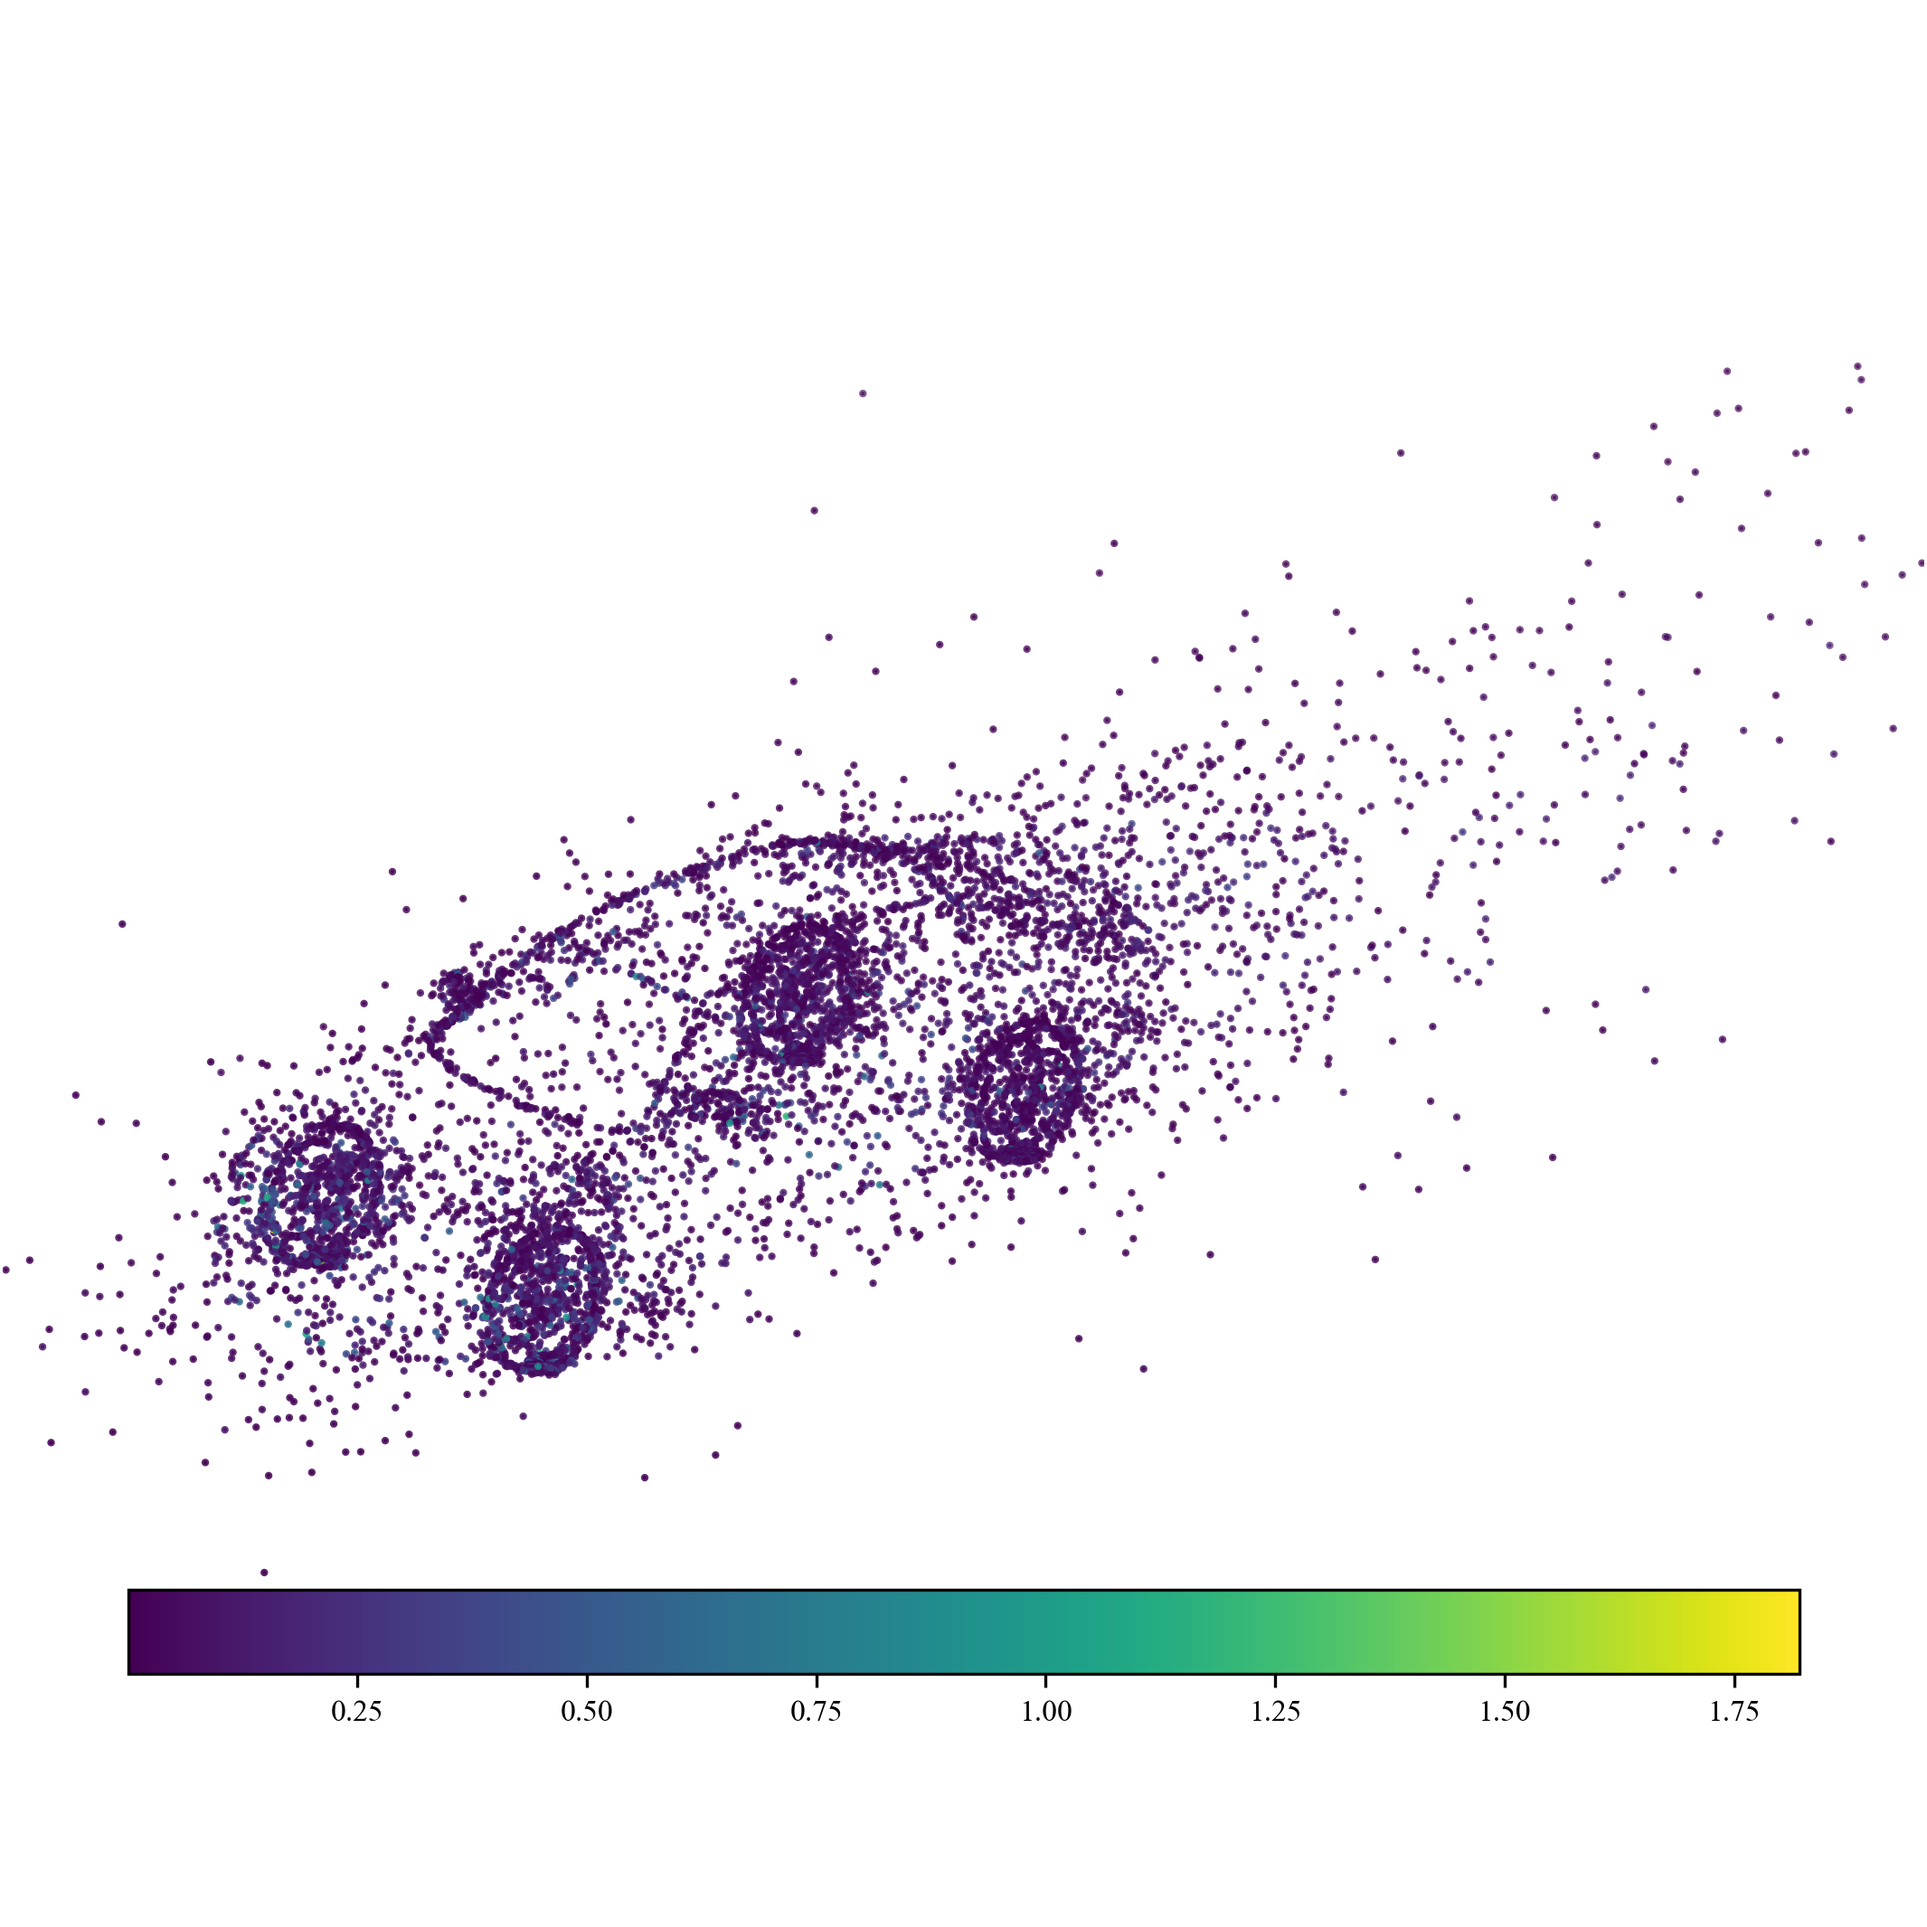
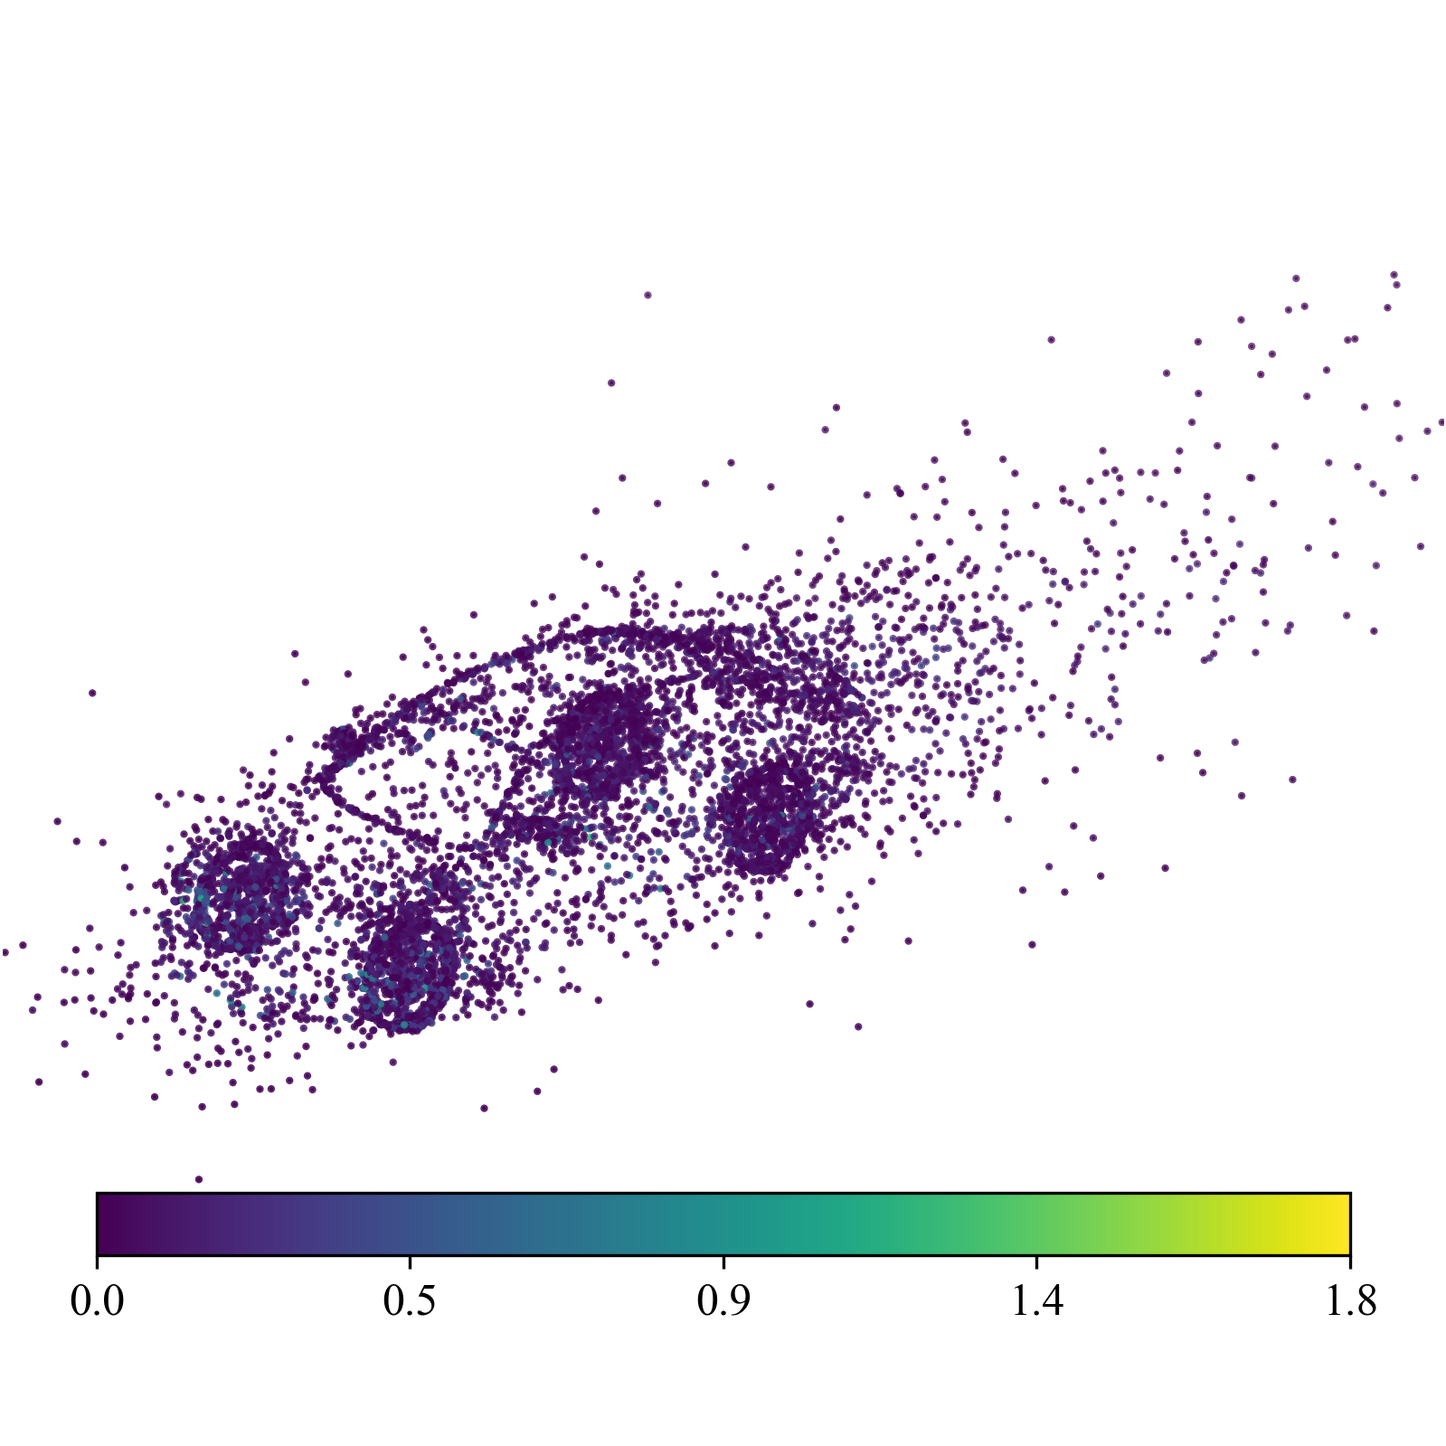
just nothing

diff --git a/RopeTransolver/plt.py b/RopeTransolver/plt.py
@@ -1,5 +1,5 @@
 import numpy as np
-from utils_RPTO import plot_car_DrivAerML 
+from utils_RPTO import plot_car_DrivAerML_velocity 
 import os
 
 size=np.load("/Users/zhangbojun/ML_Turbulent/RopeTransolver/data_DrivAerML/velocity/x.npy")
@@ -18,11 +18,10 @@ print(y.shape)
 print(y_hat.shape)
 
 figure_path = "/Users/zhangbojun/ML_Turbulent/RopeTransolver/fig/velocity/"
-plot_car_DrivAerML(
+plot_car_DrivAerML_velocity(
     size,
     x, y, y_hat,
     save_path=figure_path,
-    error_log_scale=True,
     #figsize=(12, 8),
     #colorbar_fontsize=24,
 )
